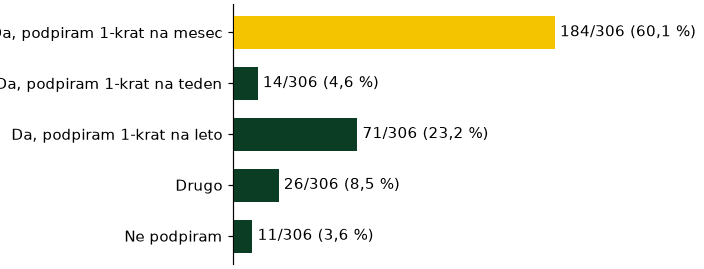
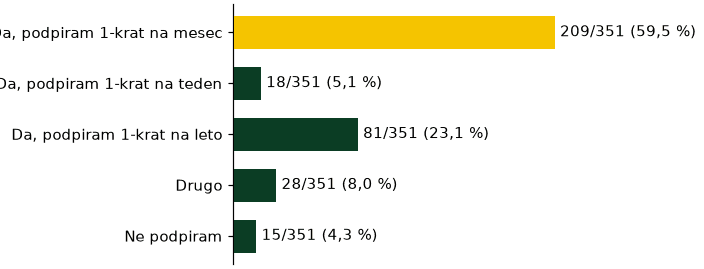
kandidati: N=359, nova vprašanja o obveščanju, vprašanje 9 in brez videa

diff --git a/kandidati/app.js b/kandidati/app.js
@@ -9,10 +9,8 @@ const CONFIG = {
 const $ = s => document.querySelector(s);
 const ph = s => !s || /\[.*\]/.test(s);
 let Q = null, G = {}, state = {};
-const NVSEH = 313; // vseh oddanih anket v izvozu
+const NVSEH = 359; // veljavnih anket v izvozu 5. 11. 2026 (1 test izločen)
 const words = t => (t.trim().match(/\S+/g) || []).length;
-const VIDEO_RE = /^https:\/\/(www\.)?(youtube\.com\/(watch\?v=|shorts\/)[\w-]{6,}|youtu\.be\/[\w-]{6,}|drive\.google\.com\/(file\/d\/|open\?id=)[\w-]+|vimeo\.com\/\d+)/i;
-
 function esc(s){return String(s).replace(/[&<>"]/g,c=>({'&':'&amp;','<':'&lt;','>':'&gt;','"':'&quot;'}[c]))}
 
 async function init(){
@@ -43,14 +41,10 @@ function render(){
       <textarea id="x-${q.id}" name="x-${q.id}" aria-describedby="c-${q.id}"></textarea>
       <div class="row"><button type="button" class="mic" aria-pressed="false" data-t="x-${q.id}">🎤 Narekuj</button>
         <span class="small cnt" id="c-${q.id}" aria-live="polite">0 besed</span></div>
-      <p class="small micmsg" aria-live="polite"></p>
-      <label for="v-${q.id}">Povezava do videa (neobvezno, največ 2 min)</label>
-      <input type="url" id="v-${q.id}" name="v-${q.id}" placeholder="https://youtu.be/… ali Drive / Vimeo" inputmode="url">
-      <p class="msg vmsg" aria-live="polite"></p></div>`).join('');
+      <p class="small micmsg" aria-live="polite"></p></div>`).join('');
     sek.insertAdjacentHTML('beforeend',`<section class="card sek" data-s="${s.id}"><h2>${esc(s.naslov)}</h2>${s.opis?`<p class="opis">${esc(s.opis)}</p>`:''}${graf(s.id)}${(s.citati||[]).length?`<div class="cit"><p class="small">Iz odgovorov prebivalcev:</p>${s.citati.map(c=>`<blockquote>»${esc(c)}«</blockquote>`).join('')}</div>`:''}${qs}</section>`);
   });
   document.querySelectorAll('textarea').forEach(t=>t.addEventListener('input',()=>count(t)));
-  document.querySelectorAll('input[type=url]').forEach(i=>i.addEventListener('blur',()=>vcheck(i)));
   setupMic();
 }
 function graf(id){const g=G[id];if(!g)return '';
@@ -58,9 +52,6 @@ function graf(id){const g=G[id];if(!g)return '';
   <img src="${g.slika}" alt="${esc(g.alt)}" loading="lazy" width="704">
   <p class="small vir">Vir: Savska anketa, vprašanje ${g.stevilka} »${esc(g.vprasanje)}«; možnosti: ${esc(g.moznosti)}; n = ${g.n}/${NVSEH} odgovorov.${g.opomba?' '+esc(g.opomba):''}${g.izbor?' '+esc(g.izbor):''}${g.pobude!=null?` MOL je za to temo prejel ${g.pobude} pobud (portal Pobude meščanov).`:''}</p></figure>`}
 function count(t){const n=words(t.value),c=$('#c-'+t.id.slice(2)),m=CONFIG.maxBesed;c.textContent=m?`${n} / ${m} besed`:`${n} besed`;c.classList.toggle('over',!!m&&n>m)}
-function vcheck(i){const m=i.closest('.q').querySelector('.vmsg');const v=i.value.trim();const ok=!v||VIDEO_RE.test(v);
-  m.textContent=ok?'':'Prosimo, vpišite povezavo YouTube, Google Drive ali Vimeo (začne se s https://).';i.setAttribute('aria-invalid',!ok);return ok}
-
 function setupMic(){
   const SR=window.SpeechRecognition||window.webkitSpeechRecognition;
   document.querySelectorAll('.mic').forEach(b=>{
@@ -82,7 +73,7 @@ function collect(){
   const o={lista:$('#lista').value.trim(),email:$('#email').value.trim(),soglasje:$('#soglasje').checked,odg:{}};
   Q.sekcije.forEach(s=>s.vprasanja.forEach(q=>{
     const r=document.querySelector(`input[name="r-${q.id}"]:checked`);
-    o.odg[q.id]={odgovor:r?r.value:'',besedilo:$('#x-'+q.id).value,video:$('#v-'+q.id).value.trim()};
+    o.odg[q.id]={odgovor:r?r.value:'',besedilo:$('#x-'+q.id).value};
   }));return o}
 function save(){state=collect();localStorage.setItem(CONFIG.storageKey,JSON.stringify(state));
   $('#saved').textContent='Shranjeno v tej napravi ob '+new Date().toLocaleTimeString('sl-SI',{hour:'2-digit',minute:'2-digit'})}
@@ -90,13 +81,13 @@ function restore(){
   $('#lista').value=state.lista||'';$('#email').value=state.email||'';$('#soglasje').checked=!!state.soglasje;
   Object.entries(state.odg||{}).forEach(([id,a])=>{
     const r=document.querySelector(`input[name="r-${id}"][value="${a.odgovor}"]`);if(r)r.checked=true;
-    const t=$('#x-'+id);if(t){t.value=a.besedilo||'';count(t)} const v=$('#v-'+id);if(v)v.value=a.video||'';});
+    const t=$('#x-'+id);if(t){t.value=a.besedilo||'';count(t)}});
 }
 function active(){return Q.sekcije} // vse sekcije so obvezne (brez izbire tem)
 function payload(){const c=collect();const out={casOddaje:new Date().toISOString(),lista:c.lista,email:c.email,soglasje:c.soglasje,odgovori:[]};
   active().forEach(s=>s.vprasanja.forEach(q=>out.odgovori.push({id:q.id,sklop:s.naslov,vprasanje:q.besedilo,...c.odg[q.id]})));return out}
 function toTxt(p){return `Savsko naselje · anketa – odgovori liste\nLista: ${p.lista}\nE-naslov: ${p.email}\nČas: ${p.casOddaje}\n\n`+
-  p.odgovori.map(a=>`[${a.sklop}] ${a.vprasanje}\nOdgovor: ${a.odgovor||'—'}\nKako in do kdaj: ${a.besedilo||'—'}\nVideo: ${a.video||'—'}\n`).join('\n')}
+  p.odgovori.map(a=>`[${a.sklop}] ${a.vprasanje}\nOdgovor: ${a.odgovor||'—'}\nKako in do kdaj: ${a.besedilo||'—'}\n`).join('\n')}
 function dl(txt,ext,type){const a=document.createElement('a');a.href=URL.createObjectURL(new Blob([txt],{type:type+';charset=utf-8'}));
   a.download=`odgovori-${(collect().lista||'lista').replace(/[^\wčšžČŠŽ-]+/g,'_')}.${ext}`;a.click();URL.revokeObjectURL(a.href)}
 
@@ -104,18 +95,17 @@ function validate(){
   const c=collect(),e=[];
   if(!c.lista)e.push('Vpišite ime liste.');
   if(!/^[^@\s]+@[^@\s]+\.[^@\s]+$/.test(c.email))e.push('Vpišite veljaven e-naslov.');
-  let manj=0,dolg=0,vid=0;
-  active().forEach(s=>s.vprasanja.forEach(q=>{const a=c.odg[q.id];if(!a.odgovor)manj++;if(CONFIG.maxBesed&&words(a.besedilo)>CONFIG.maxBesed)dolg++;if(!vcheck($('#v-'+q.id)))vid++}));
+  let manj=0,dolg=0;
+  active().forEach(s=>s.vprasanja.forEach(q=>{const a=c.odg[q.id];if(!a.odgovor)manj++;if(CONFIG.maxBesed&&words(a.besedilo)>CONFIG.maxBesed)dolg++}));
   if(manj)e.push(`Pri ${manj} vprašanjih še ni izbran odgovor Da / Ne / Delno.`);
   if(dolg)e.push(`${dolg} odgovorov je daljših od ${CONFIG.maxBesed} besed.`);
-  if(vid)e.push(`${vid} povezav do videa ni veljavnih.`);
   if(!c.soglasje)e.push('Potrdite soglasje za objavo.');
   return e}
 function review(){
   const e=validate();$('#err').innerHTML=e.map(esc).join('<br>');if(e.length)return;
   const p=payload();
   $('#revBody').innerHTML=`<p><b>Lista:</b> ${esc(p.lista)}<br><b>E-naslov:</b> ${esc(p.email)}</p>`+
-    p.odgovori.map(a=>`<div class="rv"><b>${esc(a.vprasanje)}</b><br>Odgovor: ${esc(a.odgovor)}<br>${esc(a.besedilo||'—')}${a.video?'<br>Video: '+esc(a.video):''}</div>`).join('');
+    p.odgovori.map(a=>`<div class="rv"><b>${esc(a.vprasanje)}</b><br>Odgovor: ${esc(a.odgovor)}<br>${esc(a.besedilo||'—')}</div>`).join('');
   $('#f').hidden=true;$('#review').hidden=false;$('#review').focus();
 }
 async function submit(){

diff --git a/kandidati/index.html b/kandidati/index.html
@@ -15,7 +15,7 @@
 <li>Odgovore objavimo <b>dobesedno in v celoti na spletu, vse naenkrat</b>, liste po <b>abecednem redu</b>. Na vhodih bo natisnjen kratek povzetek odgovorov vsake liste.</li>
 <li>Liste, ki ne odgovorijo, navedemo nevtralno (»odgovora nismo prejeli«).</li>
 <li>Objava: skupina Savsko naselje, <b>savska.org</b> in natisnjeno na vhodih blokov do <b>13. 11. 2026</b>.</li>
-<li>Pisni odgovor brez omejitve dolžine. Video: neobvezno, <b>največ 2 minuti</b>, le povezava (YouTube, Google Drive ali Vimeo).</li>
+<li>Pisni odgovor brez omejitve dolžine.</li>
 </ul>
 <p>Vprašanja in pomoč: <a href="mailto:savskonaselje1@gmail.com">savskonaselje1@gmail.com</a> · <a href="tel:+38670205595">070 205 595</a></p>
 <p class="small">Narek z mikrofonom deluje <b>samo v vašem brskalniku</b> – zvoka ne shranjujemo in ne pošiljamo nam. Odgovori se sproti shranjujejo le v tej napravi, dokler jih ne oddate.</p>
@@ -29,7 +29,7 @@
 </section>
 <div id="sekcije"></div>
 <section class="card"><h2>Soglasje</h2>
-<label class="chk"><input type="checkbox" id="soglasje" required> Soglašamo, da se odgovori (besedilo in povezave do videov) objavijo skupaj z imenom liste.</label>
+<label class="chk"><input type="checkbox" id="soglasje" required> Soglašamo, da se odgovori objavijo skupaj z imenom liste.</label>
 <div class="btns"><button type="button" id="pregled" class="pri">Preglej odgovore</button><button type="button" id="prenesiJ">Prenesi kopijo (JSON)</button><button type="button" id="prenesiT">Prenesi kopijo (TXT)</button></div>
 <p id="err" class="msg" role="alert"></p><p id="saved" class="small" aria-live="polite"></p>
 </section>
